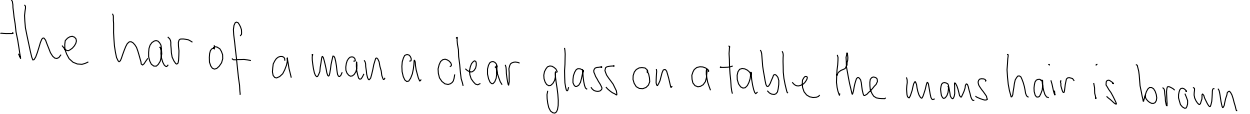
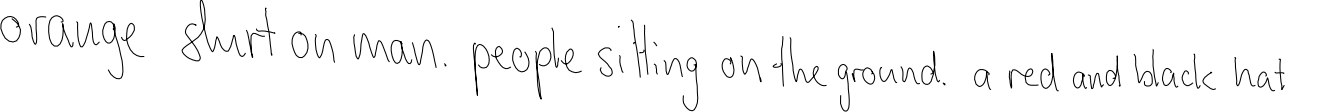
fourth commit

diff --git a/vis/haiku_get_json.py b/vis/haiku_get_json.py
@@ -1,3 +1,7 @@
+import cv2
+import os
+import subprocess
+
 import json
 import pronouncing
 from random import randint
@@ -7,6 +11,20 @@ import webbrowser
 import base64
 import shutil
 from urlparse import urljoin
+
+# capture image from webcam, change directory to (densecap)pics folder, write image to folder
+vidcap = cv2.VideoCapture()
+vidcap.open(0)
+retval, image = vidcap.retrieve()
+vidcap.release()
+
+face_file_name = "haikucam.jpg"
+os.chdir('/Users/rollasoul/densecap/imgs/pics')
+cv2.imwrite(face_file_name, image)
+
+# start densecap neural network to generate captions (and write them in json-file)
+os.chdir('/Users/rollasoul/densecap')
+subprocess.call('th run_model.lua -input_dir /Users/rollasoul/densecap/imgs/pics -gpu -1', shell=True)
 
 #get the data from the json file
 haiku_base = open('/Users/rollasoul/densecap/vis/data/results.json')
@@ -75,13 +93,11 @@ print selection_line3
 
 
 # let the rnn generate the handwriting
-
+#insert haiku-lines into url parameters
 payload = {'text': '', 'style': '../data/trainset_diff_no_start_all_labels.nc,1082+554', 'bias': '0.45', 'samples': '1'}
+payload['text'] = selection_line1 + ". " + selection_line2 + ". " + selection_line3
 
-payload['text'] = selection_line1 + " " + selection_line2 + " " + selection_line3
-
-#selection_line1 + selection_line2 + selection_line3
-print payload
+# send off url with parameters
 res = requests.get('http://www.cs.toronto.edu/~graves/handwriting.cgi', params=payload)
 print (res.url)
 
@@ -89,26 +105,26 @@ res.raise_for_status()
 noStarchSoup = bs4.BeautifulSoup(res.text)
 type(noStarchSoup)
 
+# generate storage for all images from website, add them to storage
 allimages = []
-
 for imgtag in noStarchSoup.find_all('img'):
      #print(imgtag['src'])
 	allimages.append(imgtag['src'])
 
+# pick handwriting image and store it in new storage (without image markers, just base64, by character)
 allimages = allimages[6]
 nuallimages = []
-
 for i in range (23, len(allimages)):
 	nuallimages.append(allimages[i])
-
+#join list of characters in one string
 nuallimages = ''.join(nuallimages)
 
-#print nuallimages
-
+# convert base64 image data to png and store it locally in png-file
 fh = open("imageToSave.png", "wb")
 fh.write(nuallimages.decode('base64'))
 fh.close()
 
-#webbrowser.open(nuallimages)
+# open in webbrowser (if necessary)
+		#webbrowser.open(nuallimages)
 
 

diff --git a/haiku_cam.py b/haiku_cam.py
@@ -1,0 +1,17 @@
+import cv2
+import os
+import subprocess
+
+# capture image from webcam, change directory to (densecap)pics folder, write image to folder
+vidcap = cv2.VideoCapture()
+vidcap.open(0)
+retval, image = vidcap.retrieve()
+vidcap.release()
+
+face_file_name = "haikucam.jpg"
+os.chdir('/Users/rollasoul/densecap/imgs/pics')
+cv2.imwrite(face_file_name, image)
+
+# start densecap neural network to generate captions (and write them in json-file)
+os.chdir('/Users/rollasoul/densecap')
+subprocess.call('th run_model.lua -input_dir /Users/rollasoul/densecap/imgs/pics -gpu -1', shell=True)

diff --git a/imgs/haiku_cam.py b/imgs/haiku_cam.py
@@ -1,0 +1,10 @@
+from cv2 import *
+# initialize the camera
+cam = VideoCapture(0)   # 0 -> index of camera
+s, img = cam.read()
+if s:    # frame captured without any errors
+    namedWindow("cam-test",CV_WINDOW_AUTOSIZE)
+    imshow("cam-test",img)
+    waitKey(0)
+    destroyWindow("cam-test")
+    imwrite("cam.jpg",img) #save image
